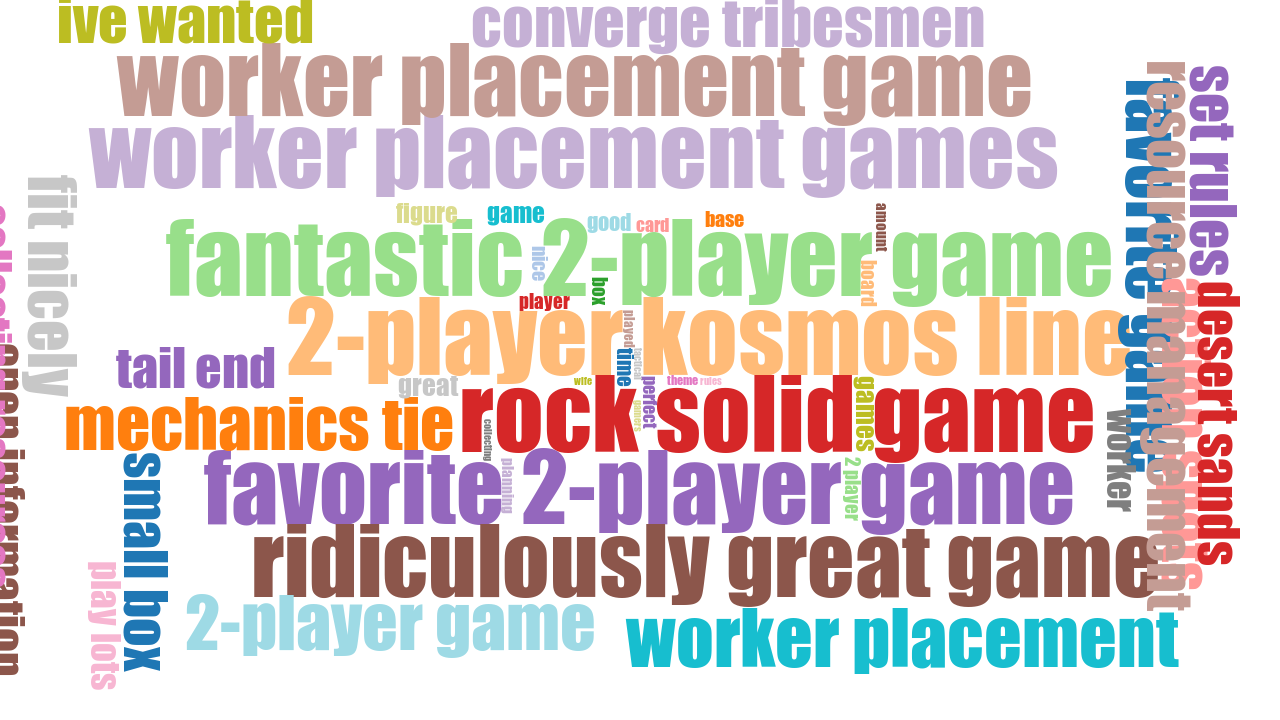
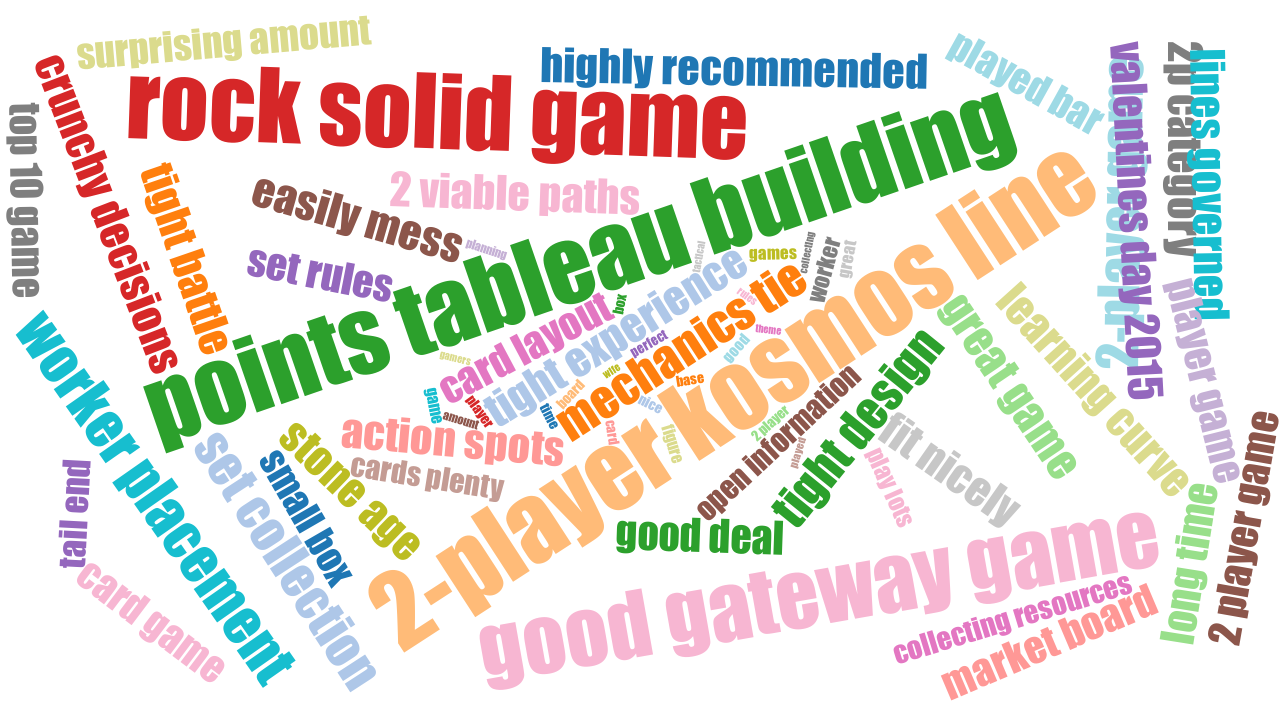
WIP: word cloud will generate with console but not on server

diff --git a/app/models/review.rb b/app/models/review.rb
@@ -54,9 +54,15 @@ class Review < ApplicationRecord
       stop_list:         RakeNLP::StopList::SMART
     })
     CSV.open("data.csv", "wb") {|csv| result.keywords.to_a.each {|elem| csv << elem} }
-    cloud = MagicCloud::Cloud.new(result.keywords.to_a, rotate: :square, scale: :log)
-    img = cloud.draw(1280, 720)
-    img.write('app/assets/images/data.png')
+    create_cloud(result)
     return result
   end
+end
+
+private
+
+def create_cloud(hash)
+  cloud = MagicCloud::Cloud.new(hash.keywords.to_a, rotate: :free, scale: :linear)
+  img = cloud.draw(1280, 720)
+  img.write('app/assets/images/data.png')
 end
